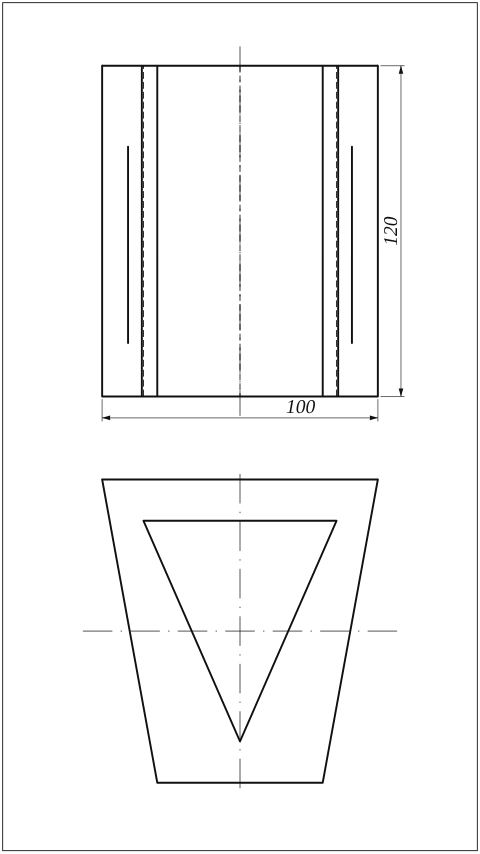
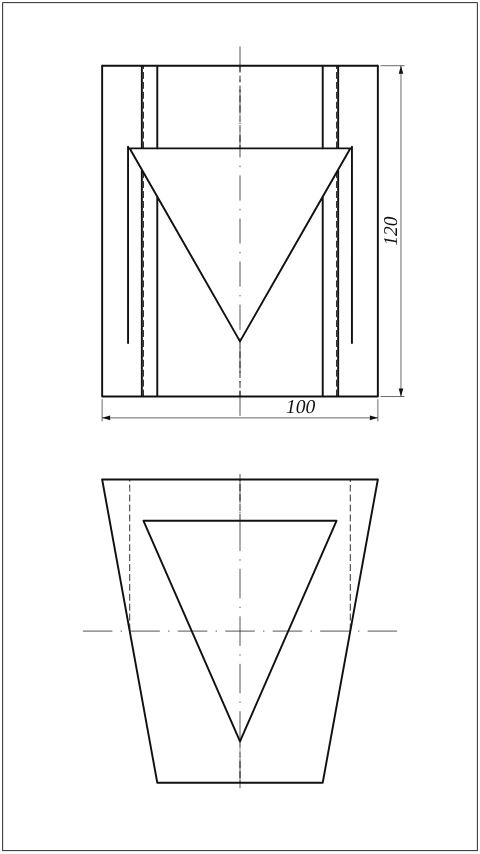
ДЗ 5 ИГ: вырез K снова виден в вариантах 11, 12, 13, 15, 23, 28
Вершины треугольного K там записаны по часовой стрелке, а K() строит вырез
из полуплоскостей обхода против часовой — вырез получался пустым, и тело
разбиралось без него. Теперь K() сам приводит обход к «против часовой».
Картинки вариантов пересняты.

Claude-Session: https://claude.ai/code/session_01NxJhVCoyXG7iSixdh28aeX

diff --git a/dz/ig/5/models.js b/dz/ig/5/models.js
@@ -8,8 +8,8 @@
 let cache=null;
 function build(){
   const {P}=IG3, S=P.S, U=P.U, I=P.I, E=0.6;
-  /* вырез K: выпуклый многоугольник на главном виде [[x, z], …] против часовой, протянутый вдоль y насквозь */
-  const K=pts=>{ const xs=pts.map(p=>p[0]), zs=pts.map(p=>p[1]), hs=pts.map((A,i)=>{ const B=pts[(i+1)%pts.length], dx=B[0]-A[0], dz=B[1]-A[1]; return P.hp([dz,0,-dx],[A[0],0,A[1]]); });
+  /* вырез K: выпуклый многоугольник на главном виде [[x, z], …] (обход любой — приводится к «против часовой»), протянутый вдоль y насквозь */
+  const K=pts0=>{ const pts=ccw(pts0), xs=pts.map(p=>p[0]), zs=pts.map(p=>p[1]), hs=pts.map((A,i)=>{ const B=pts[(i+1)%pts.length], dx=B[0]-A[0], dz=B[1]-A[1]; return P.hp([dz,0,-dx],[A[0],0,A[1]]); });
     return Object.assign(I(P.box(Math.max(...xs)-Math.min(...xs)+2*E,400,Math.min(...zs)-E,Math.max(...zs)+E,{x:(Math.max(...xs)+Math.min(...xs))/2}),...hs),{pts}); };
   /* правильная n-угольная пирамида/призма по диаметру описанной окружности; a — угол первой вершины (град от +x) */
   const R2s=(n,D)=>D*Math.cos(Math.PI/n);                          /* «под ключ» (2·апофема) по описанному диаметру */
